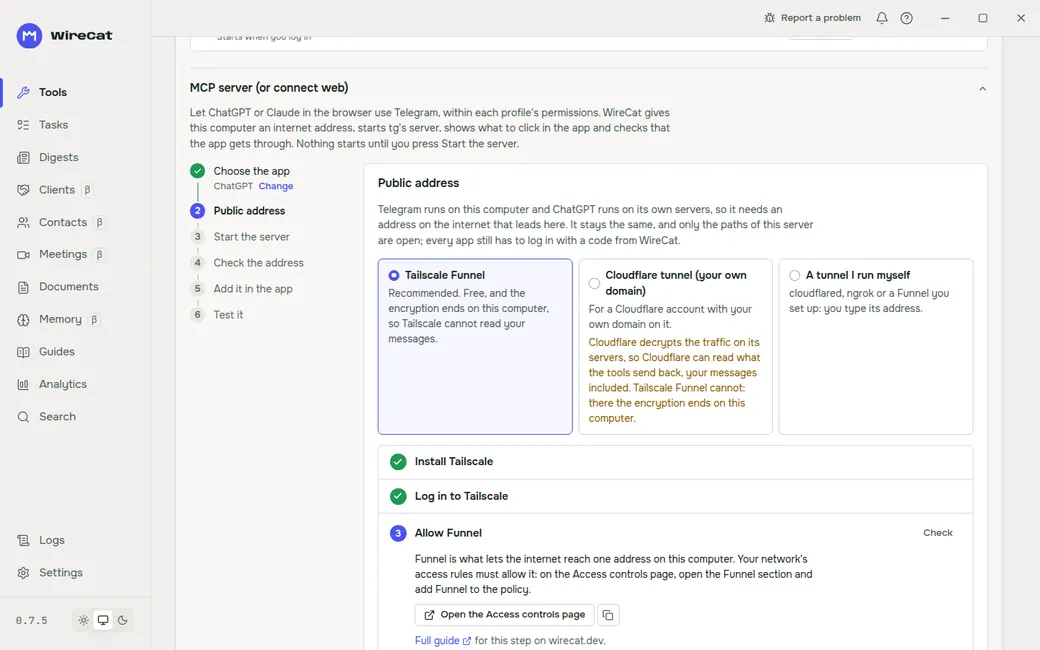
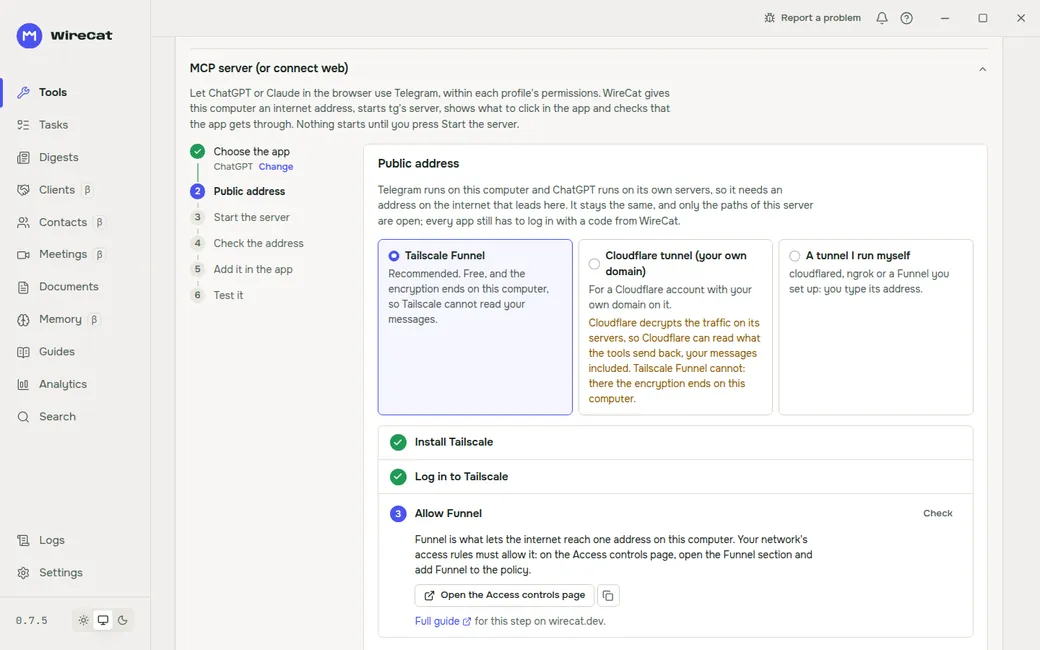
docs(desktop): alt text and captions match the 0.7.5 screenshots
The screenshots from Desktop 0.7.5 show a few screens differently from what
their alt text and captions said.

- agents, storage: they are tabs now (Agents in Tools, Storage in Analytics),
  and Storage shows counts by source
- settings: the WireCat tab opens with On this computer and its three
  switches, Reading for facts is lower down
- report: the field is About, not Area (EN)
- contacts: the shot shows the matches and Check the links, no table
- onboarding-welcome: alt names the three things WireCat does by itself,
  the Get started button is only partly in the frame
- own-tools-list retaken with Acme CRM installed and starting
  (?accounts=acmecrm), so the row shows a version, not "Does not start"
- tailscale-funnel retaken lower, so RU and ES show the whole Allow Funnel step
- contacts pages get the On this page list the opening check asks for, and
  the RU page drops «являются»

Changed region(s): [[0.1846, 0.0923, 0.9231, 0.6769], [0.3692, 0.6462, 0.8, 1.0], [0.8923, 0.7692, 0.9231, 0.8308]]

diff --git a/docs/screenshots-to-capture.md b/docs/screenshots-to-capture.md
@@ -91,7 +91,7 @@ with the current menu. Capture at 1440x900 with `capture.mjs --lang en|ru|es [--
 | `sync-error` | `?showcase&sync-fail=tg` | Wait until the sync fails, about 25 s, then open Details |
 | `report` | `?showcase` | Click Report a problem |
 | `connect` | `?showcase&connect=called` | Scroll the MCP server heading to about 70 px below the top bar |
-| `tailscale-funnel` | `?showcase&tailscale=nofunnel` | Scroll the MCP server heading to the top, so the guide's steps show |
+| `tailscale-funnel` | `?showcase&tailscale=nofunnel` | Scroll the MCP server heading to the top, then down until Open the Access controls page is 60 px above the bottom |
 | `account-remove` | `?showcase&accounts=tg` | Open the account's menu, click Remove account |
 | `bitrix-app` | `?showcase&signin-plan=bitrix:app&b24-step=app` | |
 | `mail-rules` | `?showcase&accounts=email` | Click Rules |
@@ -111,7 +111,7 @@ capture until `{shot}-{light,dark}-{ru,es}.webp` exist. All were captured from t
 | `own-review-risky` | 1280x1300 | `?showcase&own=on&own-discover=risky&own-review=@example/acme-crm-cli` | |
 | `own-check` | 1280x900 | as `own-review` | Click Add |
 | `own-confirm` | 1280x800 | as `own-review` | Click Add, then Skip and install |
-| `own-tools-list` | 1280x900 | `?showcase&own=1` | Scroll Tools WireCat has not checked into view |
+| `own-tools-list` | 1280x900 | `?showcase&own=1&accounts=acmecrm` | Close its details (Manage), scroll Tools WireCat has not checked into view |
 | `own-settings` | 1280x400 | `?showcase&section=settings&community=1&own=on` | Scroll the heading Language to the top |
 
 `own-settings` has all six files: EN, RU and ES, light and dark.
